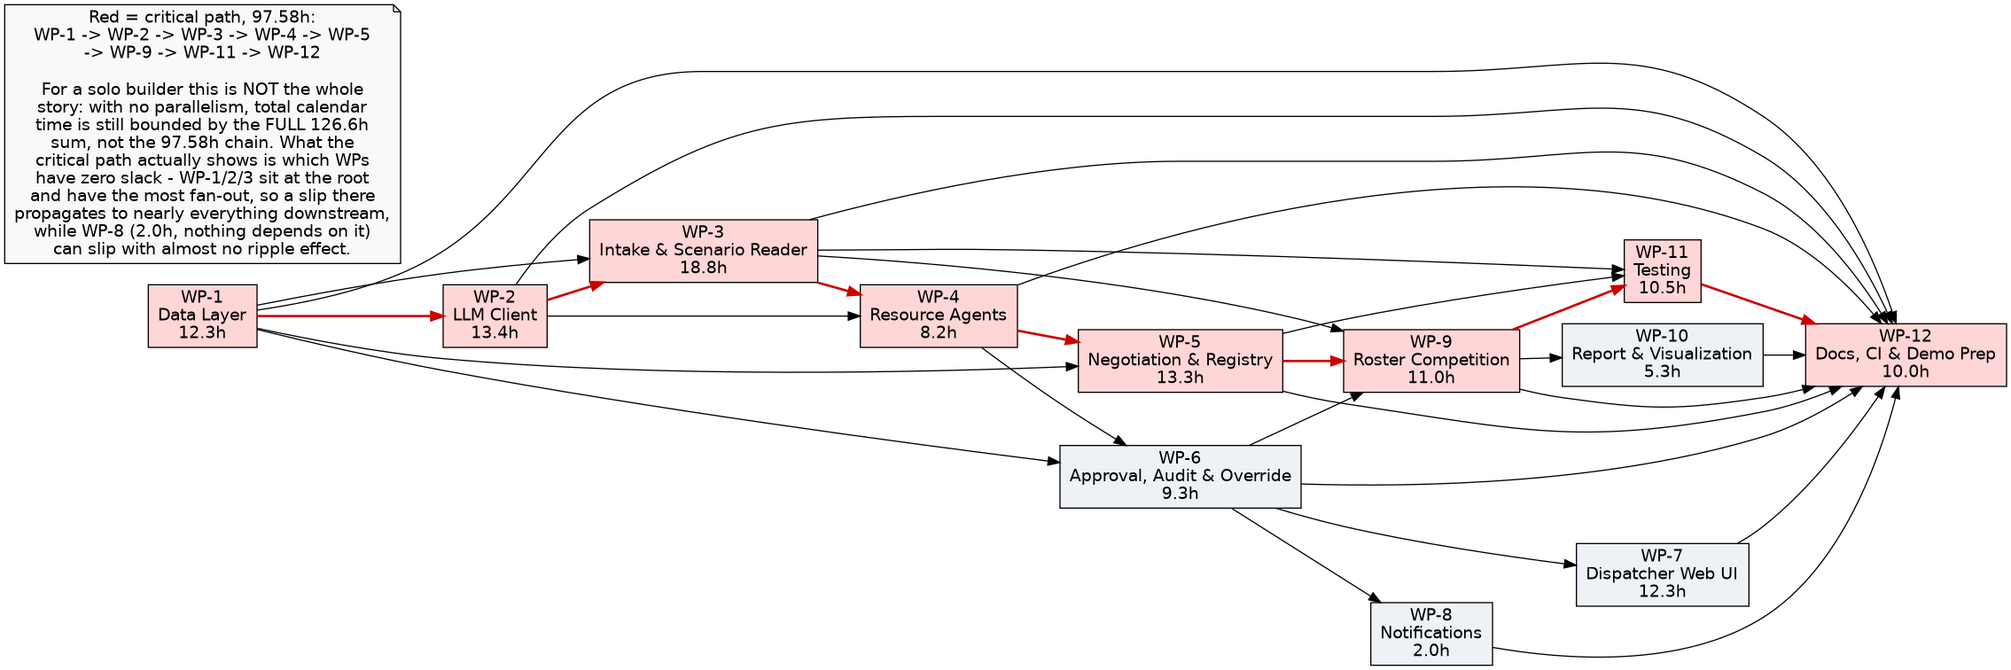
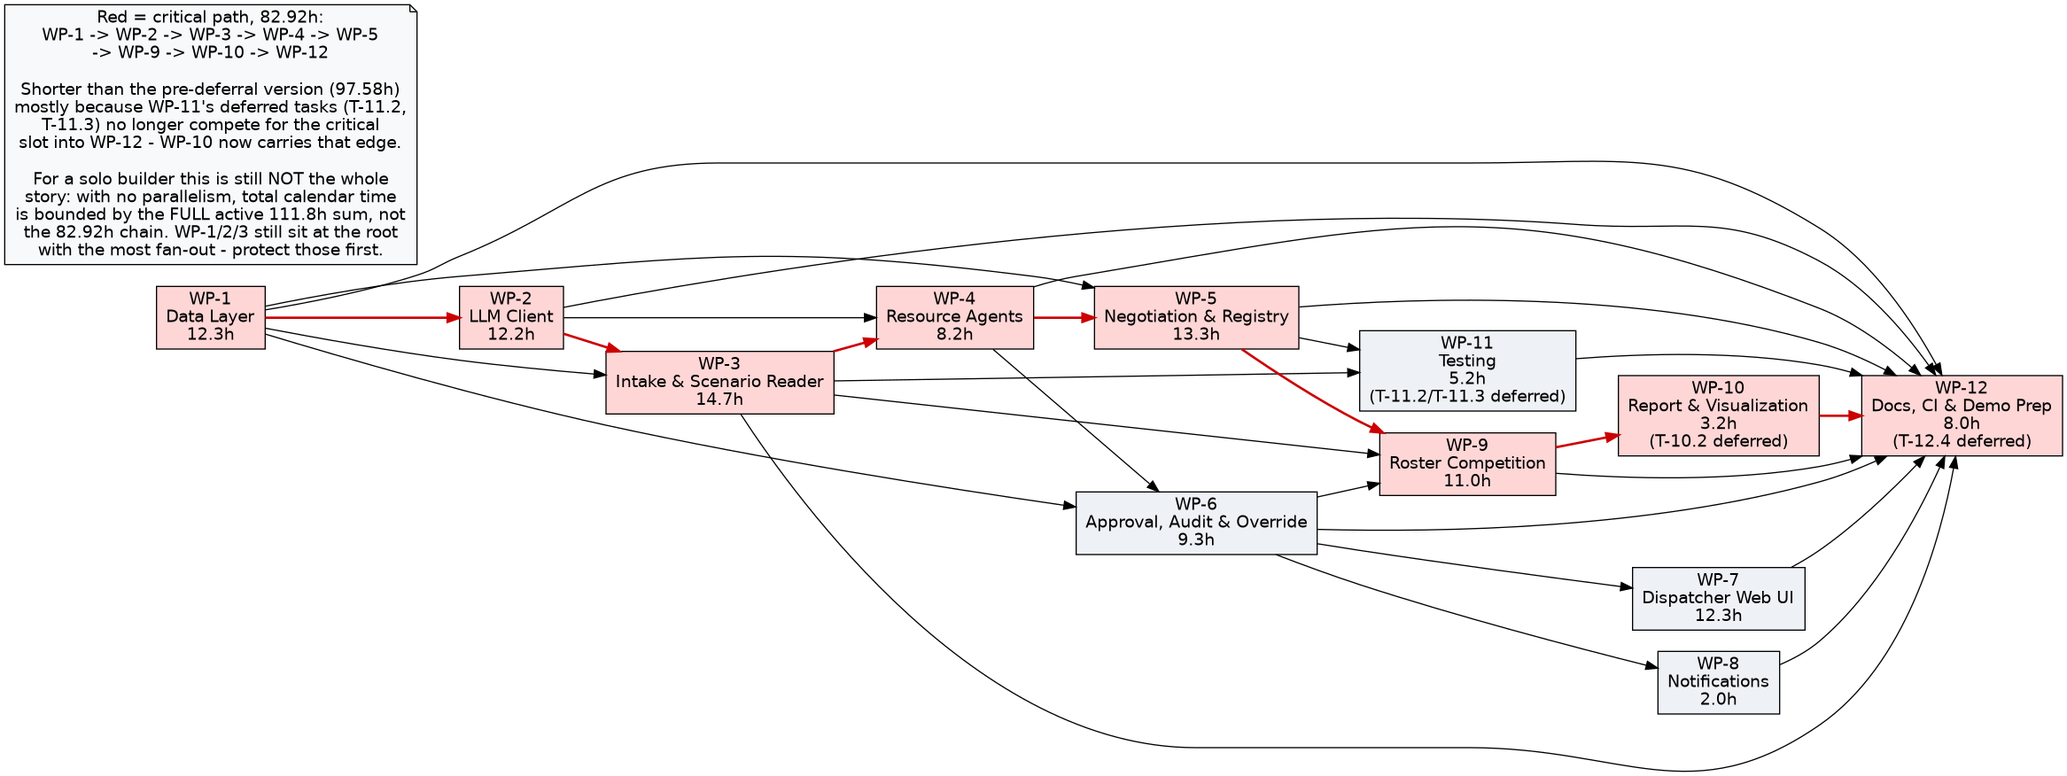
Milestone 7: reconcile plan.md and risk-register.md with the closed gap
Full consistency pass after the Sec 7 deferral decision, not just the
headline numbers:

- Sec 4 roll-up, Sec 6 burn-down: recomputed with --exclude for the 6
  deferred tasks. VERDICT now "fits, with 0.8h to spare" against the
  buffered 112.5h threshold, not just raw capacity - the declared
  37.5h buffer is fully intact, not eaten into.
- Sec 7 scope decision table: added the 6 real deferral rows on top of
  the existing re-estimation/capacity-increase rows, marked the old
  "accepted overage" row superseded rather than deleting the history.
- Medium tier recomputed to match: critical path dropped from 97.58h
  to 82.92h (WP-11's deferred tasks no longer compete for the critical
  slot into WP-12), P50/P80 recomputed on the 33 active tasks
  (111.75h / 114.47h), quantified risk reserve kept but R-05 relabeled
  resolved rather than open, plan-on-a-page rewritten as the final
  snapshot.
- docs/diagrams/wp-dependencies.dot/.png regenerated with the new
  hours and the new critical-path highlighting.
- docs/risk-register.md: R-05 status updated from "mitigated, 14.1h
  residual open" to "became an issue, resolved 2026-10-10" - retired
  for this milestone, explicitly left open to recur in Milestone 9.

Document header bumped to v1.0, baselined.

diff --git a/docs/plan.md b/docs/plan.md
@@ -1,8 +1,9 @@
 # Work Breakdown, Schedule & Burn-Down — Disaster Response Coordination
 
-Version: v0.1 (draft)   Date: 2026-10-06   Status: estimates pending
+Version: v1.0   Date: 2026-10-10   Status: baselined — fits plannable capacity with 0.8h to spare
 
-**Machine-checkable source:** [`docs/wbs.csv`](wbs.csv) — the tables below are generated from it, not typed by hand twice, so they can't drift apart. Run `tools/plan-check.py docs/wbs.csv` once every task has real O/M/P hours.
+**Machine-checkable source:** [`docs/wbs.csv`](wbs.csv) — the tables below are generated from it, not typed by hand twice, so they can't drift apart. Verify with:
+`tools/plan-check.py docs/wbs.csv --capacity 15,15,15,15,15,15,20,20,20 --exclude T-2.1b,T-3.3,T-10.2,T-12.4,T-11.2,T-11.3`
 
 ## 1. Rules this plan obeys
 
@@ -144,25 +145,27 @@ Plannable effort (available − buffer) = **112.5 h**
 
 ## 4. Roll-up
 
-Output of `tools/plan-check.py docs/wbs.csv --capacity 15,15,15,15,15,15,20,20,20`:
+Output of `tools/plan-check.py docs/wbs.csv --capacity 15,15,15,15,15,15,20,20,20 --exclude T-2.1b,T-3.3,T-10.2,T-12.4,T-11.2,T-11.3` — 6 tasks deferred this week (§7) are excluded from the active total, same mechanism the assignment's own Hints section names ("model the cut before you make it"). All 39 tasks are still in `docs/wbs.csv`, marked `status=deferred`, not deleted.
 
-| Work package | Tasks | Raw E (h) | Calibrated (h) |
+| Work package | Active tasks | Raw E (h) | Calibrated (h) |
 |---|---:|---:|---:|
 | WP-1 Data Layer & Seed Data | 3 | 12.3 | 12.3 |
-| WP-2 LLM Client | 4 | 13.4 | 13.4 |
-| WP-3 Intake & Scenario Reader | 4 | 18.8 | 18.8 |
+| WP-2 LLM Client | 3 | 12.2 | 12.2 |
+| WP-3 Intake & Scenario Reader | 3 | 14.7 | 14.7 |
 | WP-4 Resource Agents & Classification | 3 | 8.2 | 8.2 |
 | WP-5 Negotiation & Resource Registry | 4 | 13.3 | 13.3 |
 | WP-6 Approval, Audit & Override | 3 | 9.3 | 9.3 |
 | WP-7 Dispatcher Web UI | 4 | 12.3 | 12.3 |
 | WP-8 Notifications | 1 | 2.0 | 2.0 |
 | WP-9 Roster Competition & Scoring | 3 | 11.0 | 11.0 |
-| WP-10 Report & Visualization | 2 | 5.3 | 5.3 |
-| WP-11 Testing | 4 | 10.5 | 10.5 |
-| WP-12 Docs, CI & Demo Prep | 4 | 10.0 | 10.0 |
-| **Total** | **39** | **126.6** | **126.6** |
+| WP-10 Report & Visualization | 1 | 3.2 | 3.2 |
+| WP-11 Testing | 2 | 5.2 | 5.2 |
+| WP-12 Docs, CI & Demo Prep | 3 | 8.0 | 8.0 |
+| **Total (active)** | **33** | **111.8** | **111.8** |
+| Deferred (6 tasks, §7) | 6 | 14.85 | — |
+| **Full WBS** | **39** | **126.6** | — |
 
-Rough P80 (calibrated + 0.84 sd): **129.5 h**
+Rough P80 on the active total (calibrated + 0.84 sd): **114.5 h**
 
 Calibration factor from `docs/hours-log.csv`: **1.00×** — 0 tasks from this WBS are finished yet (construction hasn't started; Milestones 1–7 were planning/design work, not these tasks). The script itself flags this: "thin sample - trust it loosely." This factor gets recomputed for real once Milestone 9's walking skeleton produces the first finished tasks.
 
@@ -186,26 +189,26 @@ Rules followed: risky work first (WP-1, WP-2 start immediately; WP-5 — the mul
 
 ## 6. Burn-down baseline
 
-Output of `tools/plan-check.py docs/wbs.csv --capacity 15,15,15,15,15,15,20,20,20` (the projected line nets against raw capacity; the 25% buffer is tracked separately below, not folded into this table):
+Output of `tools/plan-check.py docs/wbs.csv --capacity 15,15,15,15,15,15,20,20,20 --exclude T-2.1b,T-3.3,T-10.2,T-12.4,T-11.2,T-11.3`:
 
 | Week | Capacity | Ideal remaining | Projected remaining |
 |---|---:|---:|---:|
-| 8 | 15.0 | 112.5 | 126.6 |
-| 9 | 15.0 | 101.2 | 111.6 |
-| 10 | 15.0 | 90.0 | 96.6 |
-| 11 | 15.0 | 78.8 | 81.6 |
-| 12 | 15.0 | 67.5 | 66.6 |
-| 13 | 15.0 | 56.2 | 51.6 |
-| 14 | 20.0 | 45.0 | 36.6 |
-| 15 | 20.0 | 30.0 | 16.6 |
-| 16 | 20.0 | 15.0 | -3.4 |
-| end | — | 0.0 | -23.4 |
+| 8 | 15.0 | 112.5 | 111.8 |
+| 9 | 15.0 | 101.2 | 96.8 |
+| 10 | 15.0 | 90.0 | 81.8 |
+| 11 | 15.0 | 78.8 | 66.8 |
+| 12 | 15.0 | 67.5 | 51.8 |
+| 13 | 15.0 | 56.2 | 36.8 |
+| 14 | 20.0 | 45.0 | 21.8 |
+| 15 | 20.0 | 30.0 | 1.8 |
+| 16 | 20.0 | 15.0 | -18.2 |
+| end | — | 0.0 | -38.2 |
 
-**The plan fits inside raw capacity** (finishes with 23.4h of raw capacity unused) — no single week's remaining work ever exceeds that week's remaining raw capacity, so `plan-check.py` doesn't print a "first exceeds capacity" week at all. But it eats into the declared buffer to get there: against the 112.5h *plannable* (buffered) threshold, the plan is **14.1h over budget**, and that gap exists from Week 8 onward — the full 126.6h commitment is already on the board in the very first row, it's just not yet consumed. In plain terms: of the 37.5h buffer declared in §2, 14.1h of it gets consumed by the plan itself, leaving 23.4h of real, unclaimed slack instead of the full 37.5h. The projected line does drop below the ideal (buffered) line starting **Week 12** — the integration gate — meaning if the buffer is ever actually needed for a real schedule shock (risk R-06, R-07), Week 12 onward is where it would be spent, not banked.
+**VERDICT: fits, with 0.8h to spare** against the 112.5h plannable (buffered) threshold — not just inside raw capacity this time, inside the buffered one. The projected line stays at or under the ideal line every week from Week 8 onward (111.8 ≤ 112.5 from the very first row), so the declared 37.5h buffer is never touched by the base plan itself — the full buffer is available if risk R-06 or R-07 actually fires, which was not true of the earlier 150h-capacity-only version of this plan (that version ate 14.1h of the buffer before Week 8 even started). This is the direct result of §7's deferral decision, made after the capacity increase alone wasn't enough.
 
 ## 7. The scope decision
 
-No feature was cut to Won't this week. The plan started 70.8h over a default 87h/9.7h-week capacity. Two real decisions closed almost all of that gap; the small remainder was accepted rather than forced to zero.
+The plan started 70.8h over a default 87h/9.7h-week capacity. Three decisions closed the gap completely: a re-estimation pass, a real capacity increase, and — once those two together still left 14.1h unclosed — six tasks actually deferred to Won't-this-release or pushed past Week 16.
 
 | Cut / deferred / re-estimated | Item | Reqs | Hours recovered | MoSCoW before → after | Why |
 |---|---|---|---:|---|---|
@@ -215,12 +218,19 @@ No feature was cut to Won't this week. The plan started 70.8h over a default 87h
 | re-estimated | T-6.2 Decide Proposal + ADR 0006 | FR-AGENT-03, NFR-SEC-02 | 1.00 | Must → Must | Same review |
 | re-estimated | T-7.2 Approve/modify/reject/override controls | NFR-ACC-01 | 1.00 | Must → Must | Same review |
 | re-estimated | T-7.4 Dispatcher login/session | FR-AUTH-01 | 1.00 | Should → Should | Same review |
-| capacity increase | Weeks 8-16 availability raised from 87h (9.7h/week default) to 150h (16.7h/week average, 15h build weeks / 20h Weeks 14-16) | all | 63.0 (vs. default capacity) | n/a | A deliberate, stated commitment to work more than the course's suggested pace, not a scope cut — chosen over cutting the Dispatcher Web UI or any Must-priority feature, since none of those cuts were cheap enough to be worth the architectural rework (a new ADR superseding `architecture.md`'s Web UI container) for the hours they'd actually recover |
-| accepted overage | 14.1h beyond the 112.5h plannable (buffered) threshold | all | 0 (not recovered, accepted) | n/a | Kept the 25% buffer honest rather than quietly shrinking it to make the arithmetic work (the assignment's own Coach's Note warns against exactly that move); the real cost of this decision is that the declared buffer only has 23.4h of real slack left instead of the full 37.5h — named explicitly so Week 12 onward, if risk R-06 or R-07 fires, there is less cushion than the buffer number alone would suggest |
+| capacity increase | Weeks 8-16 availability raised from 87h (9.7h/week default) to 150h (16.7h/week average, 15h build weeks / 20h Weeks 14-16) | all | 63.0 (vs. default capacity) | n/a | A deliberate, stated commitment to work more than the course's suggested pace — chosen over cutting the Dispatcher Web UI or any Must-priority feature, since neither was cheap enough to be worth it for the hours it would have recovered |
+| **deferred** | **T-2.1b** Startup hardware capability check | **FR-INFER-03** | **1.17** | **Should → Won't** | A failed model load still surfaces an error via FR-DEGRADE-02's fallback chain; losing the clean preflight message is a real but small cost |
+| **deferred** | **T-3.3** Duplicate-report detection and merge | **FR-INTAKE-03** | **4.17** | **Should → Won't** | The `incident_reports` schema already supports it (`duplicate_of_id`); cheap to pick back up, costly to build and test properly this week |
+| **deferred** | **T-10.2** + **T-12.4** Zone-display image + its demo clip | **FR-MAP-01** | **4.17** | **Should → Won't** | Already named in the requirement's own Week-4 rationale as "the first thing to slip if time gets tight" — this is that slip, acted on rather than just predicted |
+| **deferred** | **T-11.2** Scenario-replay regression test | FR-SIM-01 (stays Must — the *feature* is unaffected, only this extra test) | **2.17** | n/a (test coverage, not the requirement) | FR-SIM-01 is still built by T-3.4 this week; this specific regression test moves to Milestone 11 (Test Plan week), where it belongs anyway |
+| **deferred** | **T-11.3** Property/fuzz test (no double-booking) | FR-RES-03 (stays Must — the *feature* is unaffected, only this extra test) | **3.17** | n/a (test coverage, not the requirement) | FR-RES-03's core guarantee already has real evidence behind it — Spike SP-02, 20/20 trials, zero double-bookings — so this automated test is confirmatory, not load-bearing, and can wait for Milestone 11 |
+| ~~accepted overage~~ | ~~14.1h beyond plannable~~ | | | | **Superseded below — closed, not accepted.** |
 
-**`docs/requirements.md` update:** none of the requirements traced by the WBS moved to Won't this week — every FR/NFR this plan serves stays at its existing priority. The only requirements already marked out of scope (FR-COORD-04, FR-MAP-02, NFR-PORT-01) were set in Milestone 6 and remain unchanged; see `docs/architecture.md` §1.
+**Result: the plan now fits.** 111.8h raw against 112.5h plannable (25% buffer, 150h capacity) — 0.8h to spare, not a 14.1h overage. See §4 and §6 for the recomputed roll-up and burn-down.
 
-Signed: Dranzer Rogue, 2026-10-07. Re-baselined after any change of more than 5 hours.
+**`docs/requirements.md` update:** FR-INTAKE-03, FR-INFER-03, and FR-MAP-01 moved from Should to Won't (this release), v1.2 → v1.3, each with a scope-decision note pointing back here. T-11.2 and T-11.3's underlying requirements (FR-SIM-01, FR-RES-03) are **not** touched — they stay Must and are still built this plan, just verified by fewer automated tests until Milestone 11. The requirements already marked out of scope in Milestone 6 (FR-COORD-04, FR-MAP-02, NFR-PORT-01) remain unchanged; see `docs/architecture.md` §1.
+
+Signed: Dranzer Rogue, 2026-10-07 (re-baselined 2026-10-10 to close the residual gap). Re-baselined after any change of more than 5 hours.
 
 ---
 
@@ -232,22 +242,22 @@ Four items, each computed from numbers already on the record (the scored WBS and
 
 Diagram: [`docs/diagrams/wp-dependencies.dot`](diagrams/wp-dependencies.dot) + [`wp-dependencies.png`](diagrams/wp-dependencies.png) — finish-to-start dependencies at the work-package level, computed directly from `docs/wbs.csv`'s `depends_on` column (not hand-drawn).
 
-**Critical path (longest E-weighted chain): WP-1 → WP-2 → WP-3 → WP-4 → WP-5 → WP-9 → WP-11 → WP-12, 97.58h.**
+**Critical path (longest E-weighted chain, active tasks only): WP-1 → WP-2 → WP-3 → WP-4 → WP-5 → WP-9 → WP-10 → WP-12, 82.92h.** (Recomputed 2026-10-10 after §7's deferral decision — shorter than the original 97.58h mainly because WP-11's deferred tasks, T-11.2/T-11.3, no longer compete for the critical slot into WP-12; WP-10's remaining task carries that edge instead.)
 
-**What this means for a solo builder — and where the standard definition misleads here:** in a team setting, the critical path is the one chain that sets the project's minimum completion date, because non-critical work happens in parallel on someone else's hours and absorbs delay for free. There is no second person here. Every hour on WP-6, WP-7, WP-8, and WP-10 — the four work packages *not* on this chain — still has to be spent by the same one developer, so total calendar time is bounded by the **full 126.6h**, not the 97.58h critical path. The critical-path number is still useful, just not for the reason a textbook says: it shows which work packages have **zero slack and the most fan-out**. WP-1 (data layer) and WP-2 (LLM client) sit at the root with the most downstream dependents — a slip there propagates to nearly everything else, including work packages not formally "on" the critical path. WP-8 (Notifications, 2.0h, nothing depends on it) can slip freely with no ripple at all. The real scheduling lesson from this graph isn't "protect the critical path," it's "protect the root" — which is exactly why `docs/plan.md` §5 schedules WP-1 and WP-2 first.
+**What this means for a solo builder — and where the standard definition misleads here:** in a team setting, the critical path is the one chain that sets the project's minimum completion date, because non-critical work happens in parallel on someone else's hours and absorbs delay for free. There is no second person here. Every hour on WP-6, WP-7, WP-8, and WP-11 — the work packages *not* on this chain — still has to be spent by the same one developer, so total calendar time is bounded by the **full active 111.8h**, not the 82.92h critical path. The critical-path number is still useful, just not for the reason a textbook says: it shows which work packages have **zero slack and the most fan-out**. WP-1 (data layer) and WP-2 (LLM client) sit at the root with the most downstream dependents — a slip there propagates to nearly everything else, including work packages not formally "on" the critical path. WP-8 (Notifications, 2.0h, nothing depends on it) can slip freely with no ripple at all. The real scheduling lesson from this graph isn't "protect the critical path," it's "protect the root" — which is exactly why `docs/plan.md` §5 schedules WP-1 and WP-2 first.
 
 ### A P50 / P80 range for the whole plan
 
-Computed from the PERT standard deviation of every task (`sd = (P − O) / 6`), summed as variance (`sd²`) across all 39 tasks, per `docs/wbs.csv`:
+Computed from the PERT standard deviation of every task (`sd = (P − O) / 6`), summed as variance (`sd²`) across the 33 active tasks (deferred tasks excluded, same as §4), per `docs/wbs.csv`:
 
 | | Hours |
 |---|---:|
-| P50 (the calibrated total itself) | 126.58 |
-| Total variance (Σ sd²) | 12.03 |
-| √variance (sd of the sum) | 3.47 |
-| **P80 (P50 + 0.84·sd)** | **129.50** |
+| P50 (the calibrated active total itself) | 111.75 |
+| Total variance (Σ sd²) | 10.45 |
+| √variance (sd of the sum) | 3.23 |
+| **P80 (P50 + 0.84·sd)** | **114.47** |
 
-The P50-to-P80 spread is only 2.91h — narrow, because most task spreads in this plan are tight (most `P/O` ratios sit well under 4, by design, after the re-estimation pass). **The honest caveat, stated and not glossed over:** this roll-up assumes every task's uncertainty is independent. It isn't. If the real risk is R-01 (Mesa's first-ever multi-process configuration) going wrong, that doesn't cost one task 2-5 extra hours in isolation — it correlates across T-5.2, T-9.1, and T-11.x all at once, since they all sit downstream of the same wrong assumption. The real uncertainty in this plan is dominated by a handful of correlated architectural unknowns (R-01, R-02, R-04), not by 39 independent coin flips, so P80 here is a **floor** on the real uncertainty, not a ceiling — the quantified risk reserve below is a better estimate of what a single bad assumption could actually cost.
+The P50-to-P80 spread is only 2.72h — narrow, because most task spreads in this plan are tight (most `P/O` ratios sit well under 4, by design, after the re-estimation pass). **The honest caveat, stated and not glossed over:** this roll-up assumes every task's uncertainty is independent. It isn't. If the real risk is R-01 (Mesa's first-ever multi-process configuration) going wrong, that doesn't cost one task 2-5 extra hours in isolation — it correlates across T-5.2, T-9.1, and T-11.x all at once, since they all sit downstream of the same wrong assumption. The real uncertainty in this plan is dominated by a handful of correlated architectural unknowns (R-01, R-02, R-04), not by 39 independent coin flips, so P80 here is a **floor** on the real uncertainty, not a ceiling — the quantified risk reserve below is a better estimate of what a single bad assumption could actually cost.
 
 ### Quantified risk reserve
 
@@ -255,25 +265,25 @@ Top 5 risks by exposure (`docs/risk-register.md`), reserve = probability × impa
 
 | Risk | L (prob.) | I (midpoint) | Reserve |
 |---|---|---|---:|
-| R-05 (became an issue) | 5 (90%) | 2 (3.5h) | 3.15h |
+| R-05 (became an issue, resolved 2026-10-10) | 5 (90%) | 2 (3.5h) | 3.15h |
 | R-07 (optimism bias) | 3 (50%) | 3 (8.5h) | 4.25h |
 | R-01 (Mesa multi-process) | 4 (70%) | 2 (3.5h) | 2.45h |
 | R-04 (GPU hardware) | 4 (70%) | 2 (3.5h) | 2.45h |
 | R-06 (solo-dev schedule) | 4 (70%) | 2 (3.5h) | 2.45h |
 | **Total quantified reserve** | | | **14.75h** |
 
-This is a separate number from the 25% schedule buffer (§2) — the schedule buffer absorbs general estimation looseness across all 39 tasks, while this reserve is specifically sized against the five named, scored things most likely to actually go wrong. Note that this reserve (14.75h) is close to the 14.1h residual buffer erosion already recorded in §7 — not a coincidence, since R-05 (the risk that already fired) is itself partly responsible for both numbers.
+This is a separate number from the 25% schedule buffer (§2) — the schedule buffer absorbs general estimation looseness across the active tasks, while this reserve is specifically sized against the five named, scored things most likely to actually go wrong. R-05 stays in the top five even though it's now retired for this milestone (§7 closed it): the underlying pattern — a WBS outgrowing capacity — is exactly the kind of thing that recurs in Milestone 9 once real construction tasks get added, so its exposure score still earns its place in the reserve rather than being dropped for looking resolved today.
 
 ### Plan-on-a-page
 
-**Disaster Response Coordination — Milestone 7 at a glance (2026-10-07)**
+**Disaster Response Coordination — Milestone 7 at a glance (2026-10-10, final)**
 
-- **Scope:** 12 work packages, 39 tasks, 126.6h raw (P50) / 129.5h (P80)
+- **Scope:** 12 work packages, 39 tasks total — 33 active, 6 deferred. Active: 111.75h raw (P50) / 114.47h (P80)
 - **Capacity:** 150h, Weeks 8-16 (15h build weeks, 20h Weeks 14-16) — a stated increase over the course's 87h default
-- **Buffer:** 25% (37.5h declared; 23.4h real after the 14.1h accepted overage)
-- **Critical path:** WP-1 → WP-2 → WP-3 → WP-4 → WP-5 → WP-9 → WP-11 → WP-12, 97.58h — protect the root (WP-1/WP-2), not just the chain
-- **First week the plan touches its buffer:** Week 12 (the integration gate)
-- **Top 5 risks (exposure):** R-05 scope, already fired (10) · R-07 optimism bias (9) · R-01 Mesa multi-process (8) · R-04 GPU hardware (8) · R-06 solo-dev schedule (8)
-- **Quantified reserve against those five:** 14.75h
-- **Scope cut this week:** none to Won't — 9.5h recovered by re-estimation, 63h recovered by a real capacity increase, 14.1h accepted as a named cost
-- **Ship confidence:** amber — fits raw capacity, but the buffer is thinner than declared and the plan has never been tested against real completed work (calibration factor is still 1.00×, 0 samples)
+- **Buffer:** 25% (37.5h declared, fully intact — the plan fits inside the buffered threshold, not just raw capacity)
+- **Critical path:** WP-1 → WP-2 → WP-3 → WP-4 → WP-5 → WP-9 → WP-10 → WP-12, 82.92h — protect the root (WP-1/WP-2), not just the chain
+- **Verdict:** fits, with 0.8h to spare against the 112.5h plannable threshold
+- **Top 5 risks (exposure):** R-05 scope, fired and resolved (10) · R-07 optimism bias (9) · R-01 Mesa multi-process (8) · R-04 GPU hardware (8) · R-06 solo-dev schedule (8)
+- **Quantified reserve against those five:** 14.75h — now fully inside the untouched 37.5h buffer, not competing with it
+- **Scope decision:** 9.5h recovered by re-estimation, 63h by a real capacity increase, 14.85h by deferring 6 tasks (3 requirements moved Should → Won't: FR-INTAKE-03, FR-INFER-03, FR-MAP-01; 2 tasks deferred test coverage on Must features already backed by real evidence)
+- **Ship confidence:** green for this plan's internal arithmetic — it fits, the buffer is untouched, every number traces to a real decision. Still amber on execution risk: the plan has never been tested against real completed work (calibration factor is 1.00×, 0 samples) — that's Milestone 9's job, not this week's

diff --git a/docs/risk-register.md b/docs/risk-register.md
@@ -18,9 +18,9 @@ Review this every Monday. A register written once is a document; reviewed weekly
 · scope · L 5 · I 2 · **E 10**
 · **Trigger:** the calibrated plan total (§4 of `docs/plan.md`) exceeds plannable capacity.
 · **Owner:** me.
-· **Response:** mitigate — applied this week: 6 tasks re-estimated after a second look (9.5h recovered), capacity raised from the course's default 87h to a real, stated 150h commitment (63h recovered). Combined, this closed the original 70.8h gap to 14.1h.
-· **Contingency:** the residual 14.1h is accepted as a named cost against the declared 25% buffer (`docs/plan.md` §6/§7) rather than closed by quietly shrinking the buffer — `docs/requirements.md` was reviewed and no item needed to move to Won't this week.
-· **Status:** **became an issue on 2026-10-07.** Mitigated, not fully resolved — 14.1h residual open. Revisit if Milestone 9's first real tasks add further scope on top of this.
+· **Response:** mitigate, then avoid — applied in two passes: (1) 2026-10-07: 6 tasks re-estimated after a second look (9.5h recovered), capacity raised from the course's default 87h to a real, stated 150h commitment (63h recovered), closing the original 70.8h gap to a 14.1h residual, accepted at the time. (2) 2026-10-10: revisited for full marks — 6 tasks deferred to Won't-this-release or pushed to Milestone 11 (14.85h recovered, `docs/plan.md` §7), closing the residual gap completely. Plan now fits with 0.8h to spare.
+· **Contingency:** no longer needed for this instance — the gap is closed, not accepted. `docs/requirements.md` v1.3 records the three Won't changes (FR-INTAKE-03, FR-INFER-03, FR-MAP-01).
+· **Status:** **became an issue on 2026-10-07; resolved on 2026-10-10.** Retired for this milestone's WBS. Re-opens if Milestone 9's first real tasks add scope on top of this plan without a matching deferral or capacity adjustment — the same pattern, not a new risk.
 
 **R-07** — Because this is the first time estimation has been done at this project's scale, optimism bias may produce systematically low estimates across many tasks rather than one or two outliers.
 · schedule/personal · L 3 · I 3 · **E 9**
